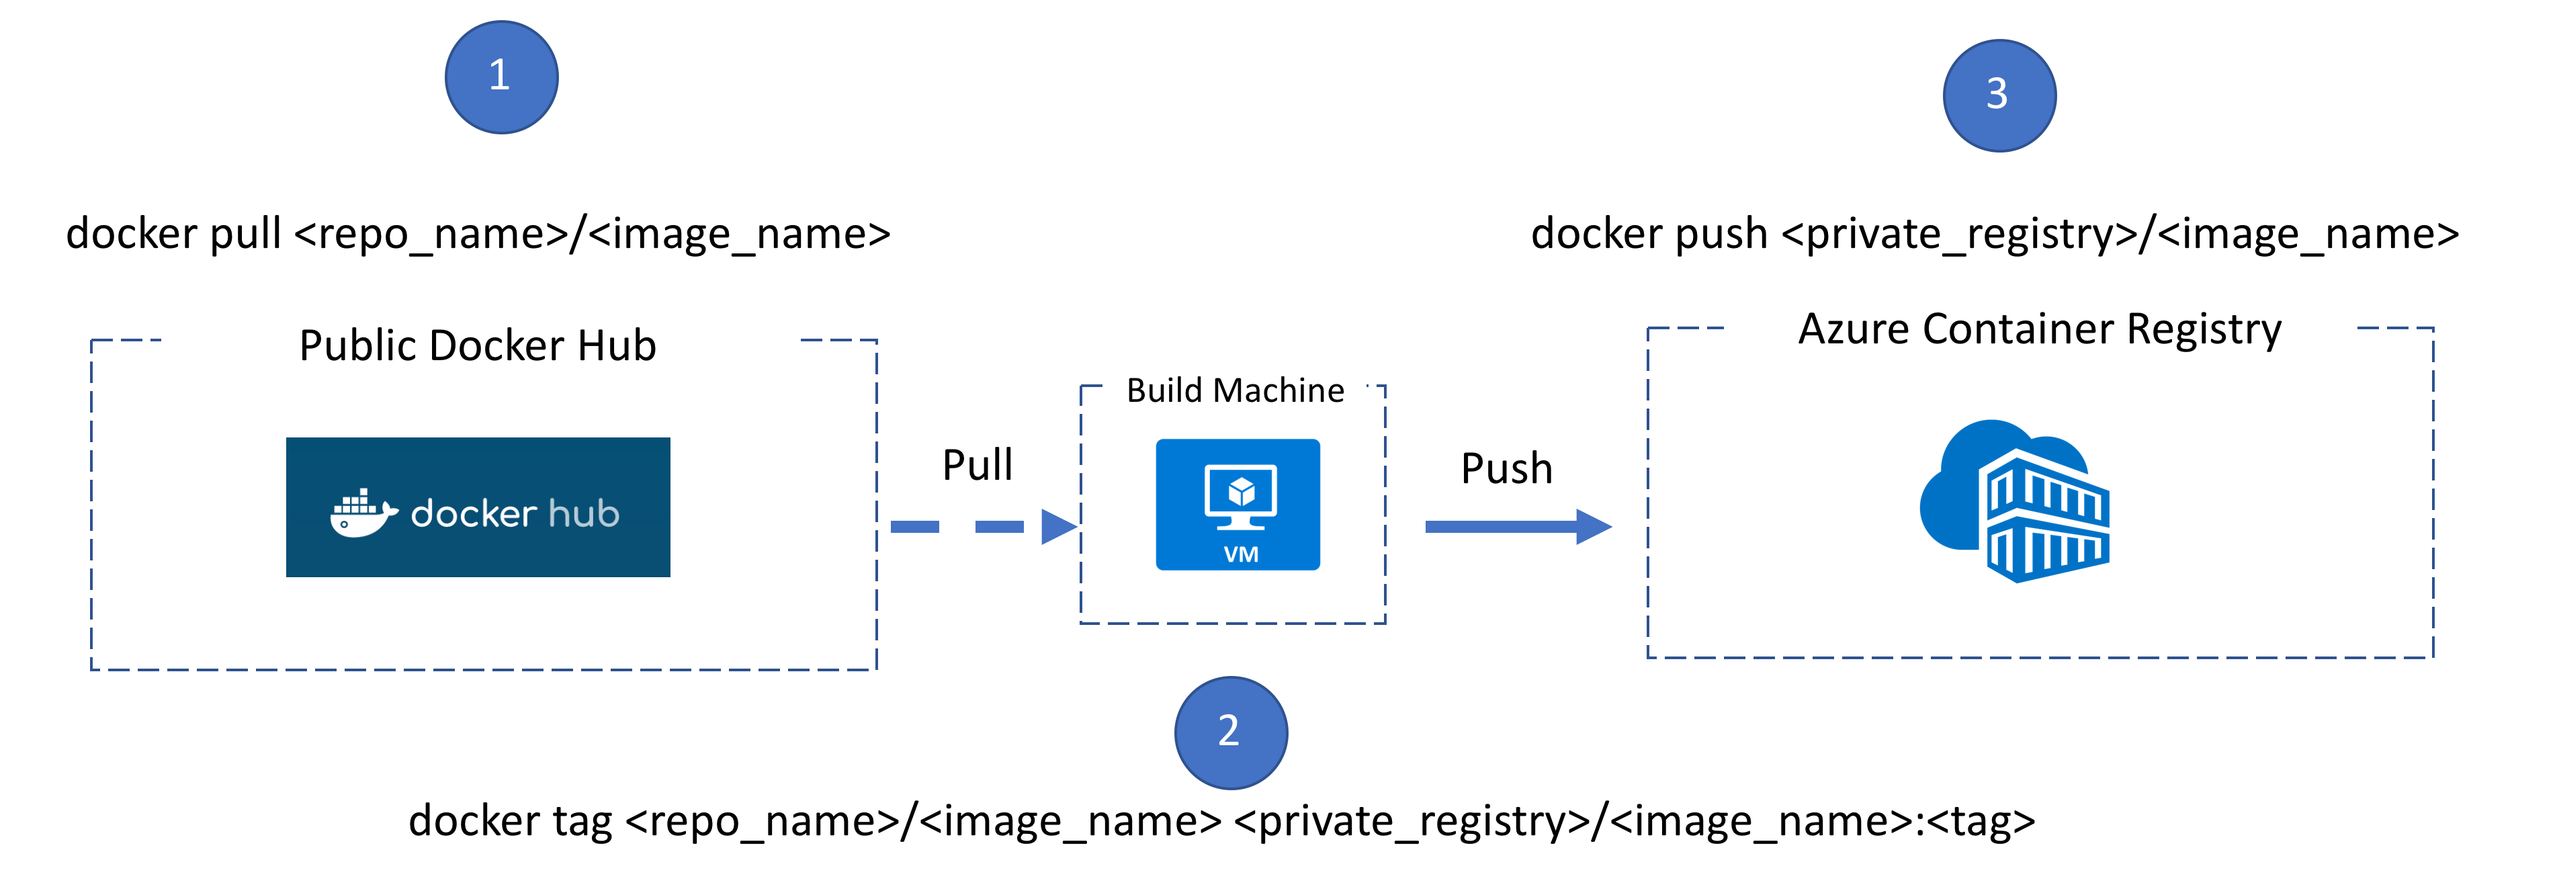
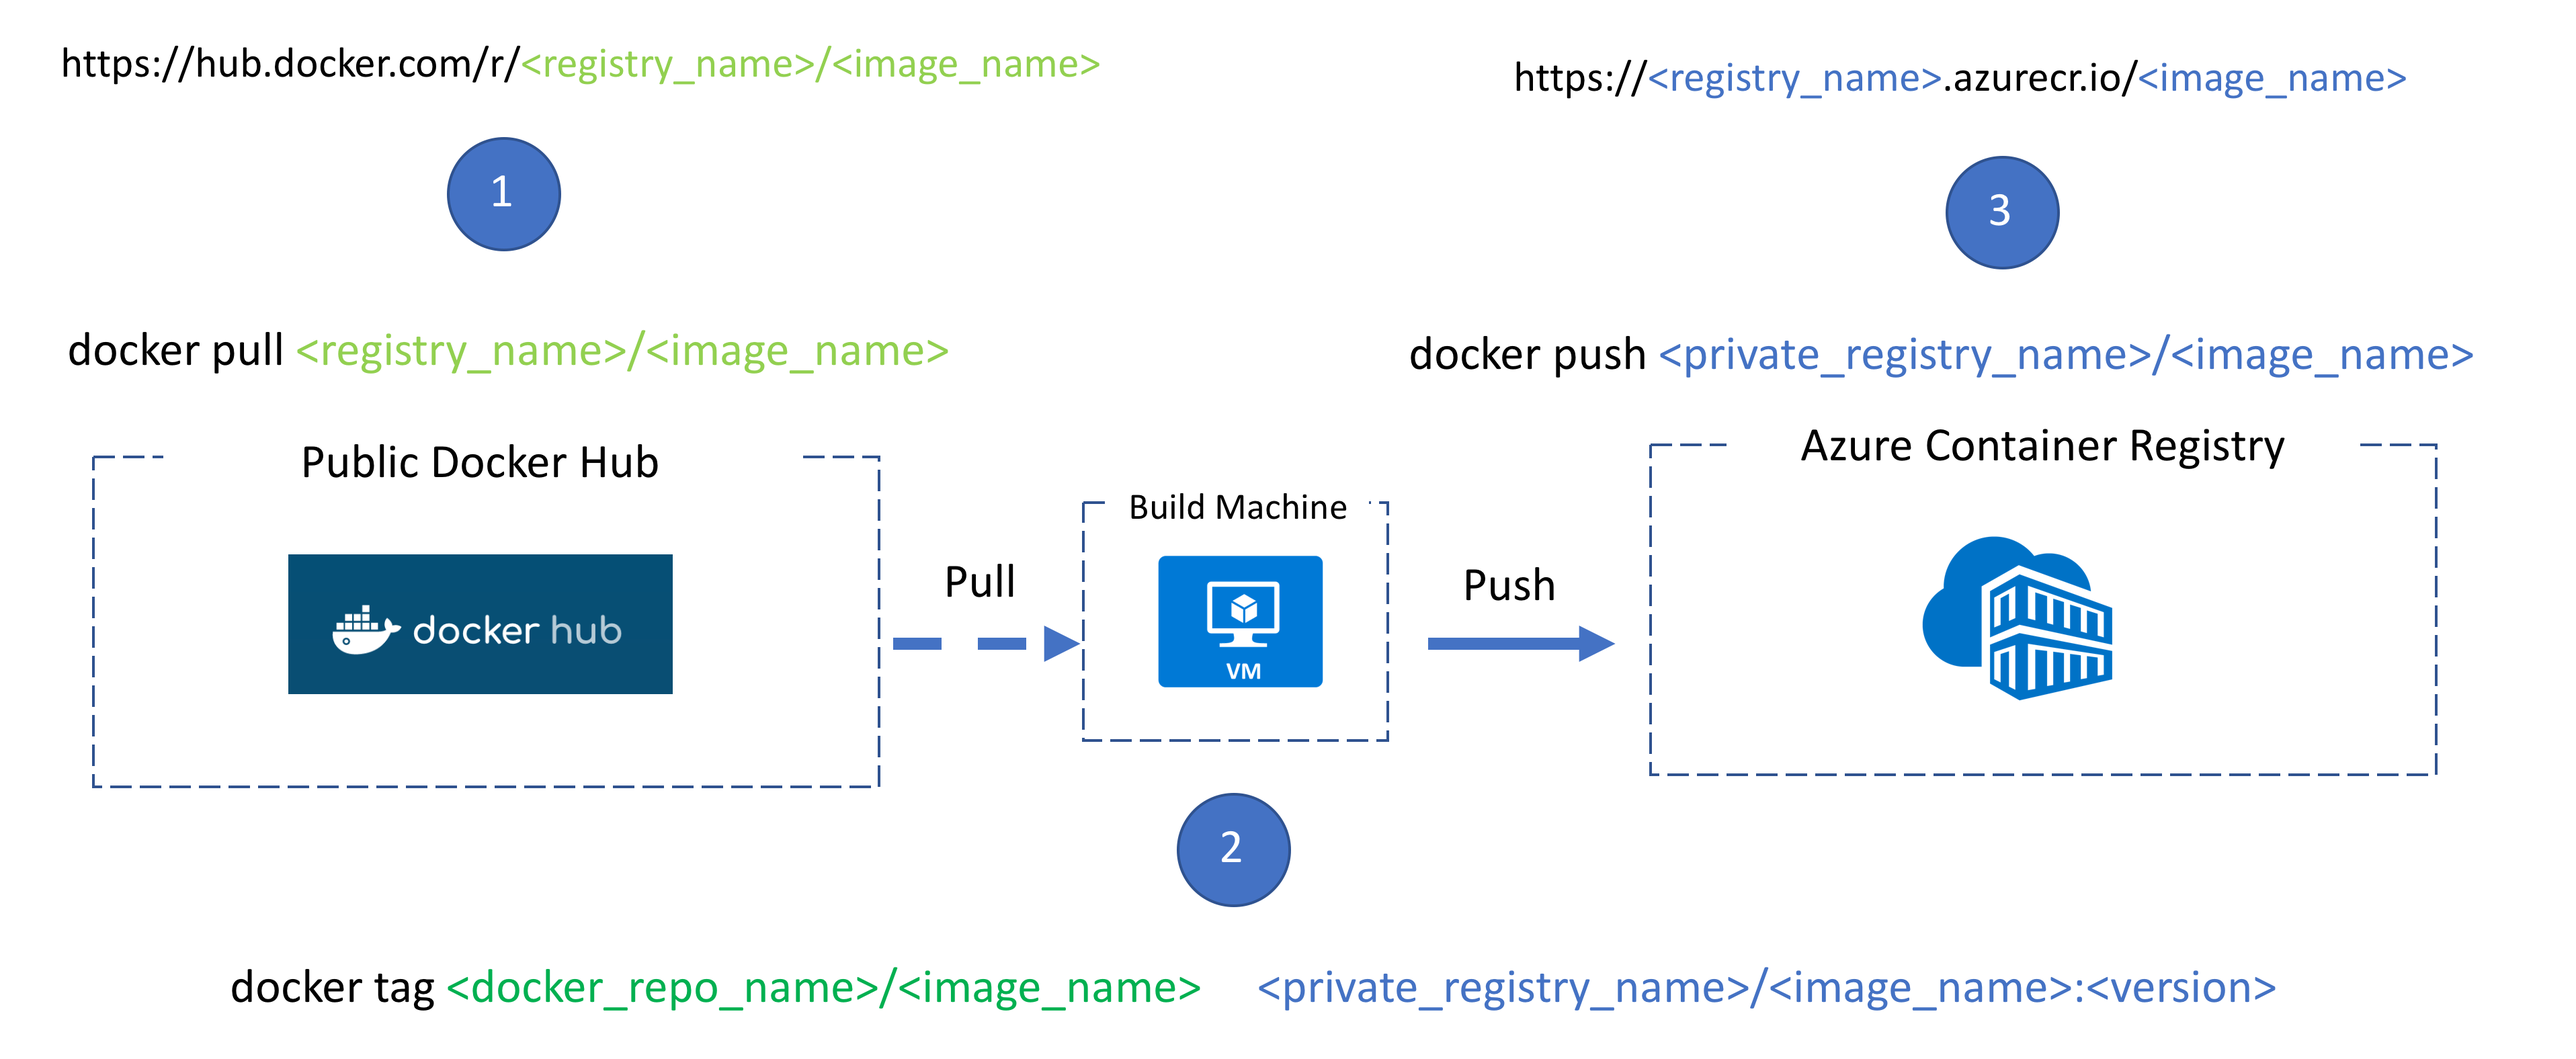
docker registry push/pull docs needed updating for clarity.  there was confusion over doing this

diff --git a/HOL/03_WebAppContainers/README.md b/HOL/03_WebAppContainers/README.md
@@ -30,12 +30,28 @@ In this lab you will be working with Web App for Containers which is one of the 
 ### 4. Private Registry (Azure Container Registry - ACR)
 - Create an Azure Container Registry (ACR)
 - Pull in a public image from docker hub
-- Re-tag the public image and namespace it to your private registry (hint: <your-private-registry>.azurecr.io)
+- Re-tag the public image and namespace it to your private registry (hint: ```<registry_name>.azurecr.io```)
 - Link your new ACR to your Web App for Containers Service (WACS)
     - You can do this in the portal or CLI
     - You can also enable Continuous Deployment when the ACR image is updated (pushed to ACR)
 
 ![pull/tag/push](images/docker_push_to_registry.png)
+
+#### Notes:
+1. By default the ```docker``` command knows to ```pull``` from docker hub registry
+2. In order to ```push``` to your registry you must be logged in by running ```docker login <your-private-repo-url>```
+    - ```docker login``` by itself will log you in to docker hub
+        - you must include a your private repo URL to authenticate against a privately hosted registry (like Azure Container Registry)
+    - after logging in your repo credentials will be cached
+        - for Azure Container Registry your username is the same as ```<registry_name>```.azurecr.io
+        - the password can be found in your Azure Container Registry Dashboard in the Azure Portal
+3. You can check your cached credentials in your ```.docker/config.json``` in your home folder
+    - you will see the registries your're logged into and can ```push``` to
+4. By tagging images with ```<registry_name>/<image_name>``` docker will resolve this name to the proper ```<registry_name>``` to push/pull to
+    - simple names like ```kevingbb/<image_name>``` are likely docker hub registries
+    - complex names like ```<registry_name>.azurecr.io/<image_name>``` are privately hosted registries (not docker hub)
+    
+
 
 ## Troubleshooting
 
